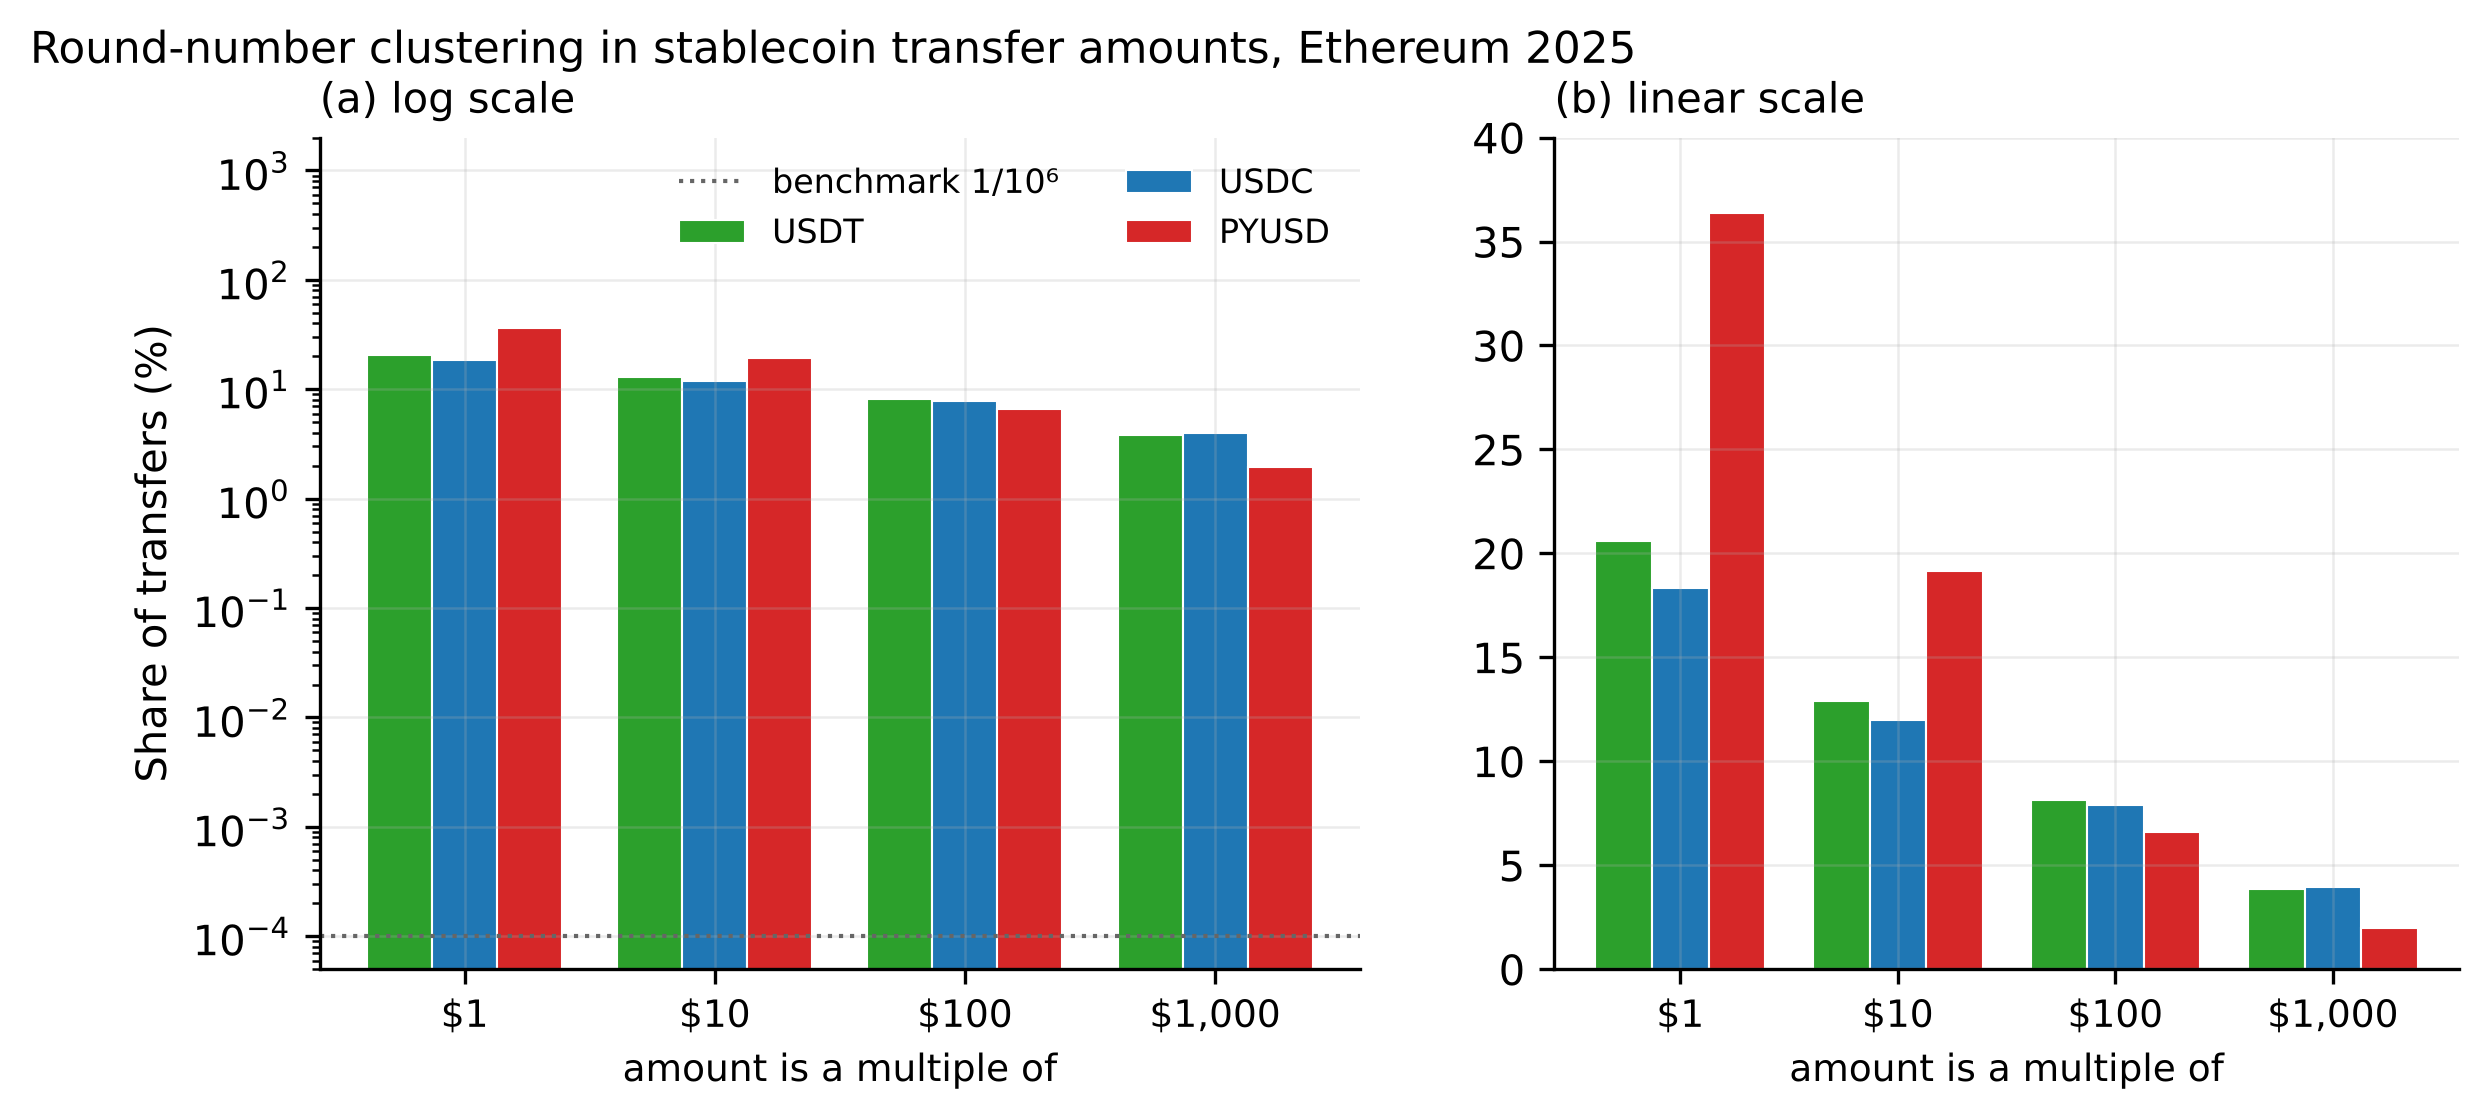
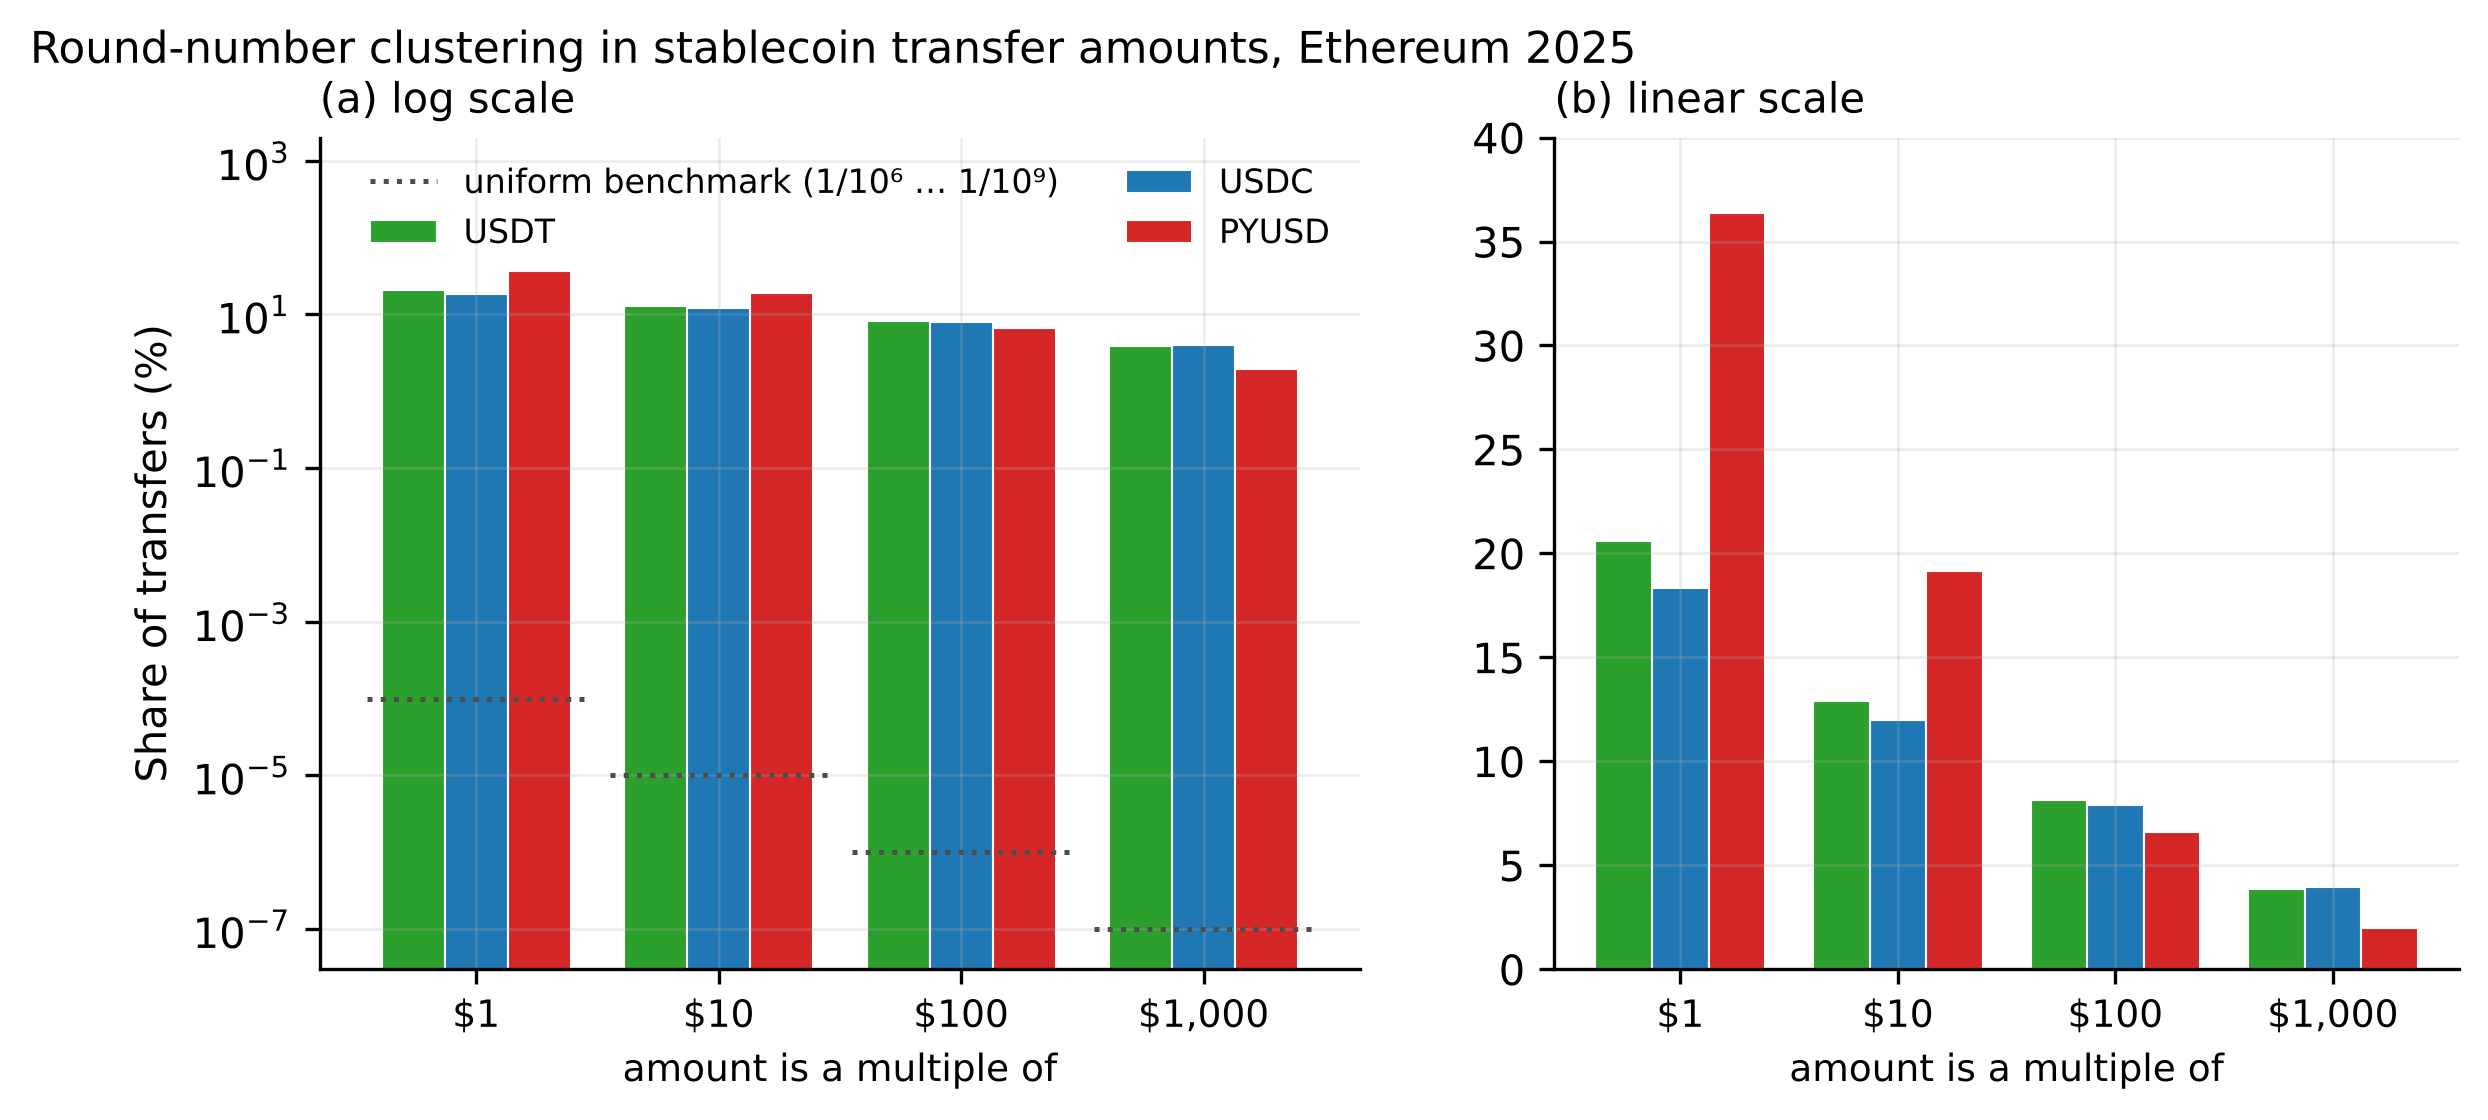
Add files via upload

diff --git a/code/rev_tables_extra.py b/code/rev_tables_extra.py
@@ -4,6 +4,7 @@
       (R02c day cells, excl. mint/burn; day FE; day-clustered SEs).
   T8  Transfers into payment-processor addresses by processor, with leave-one-out shares (R05).
   T9  Reconciliation of mint/burn-excluded counts in Tables S5 (query 07) and S7 (R02b).
+  T10 Account type x hub involvement (R02b; Table S8, Panel B).
 Run: python rev_tables_extra.py
 """
 import os
@@ -73,3 +74,24 @@ t9 = pd.DataFrame({"S5_query07": s5, "S7_R02b": s7})
 t9["difference"] = t9.S5_query07 - t9.S7_R02b
 t9.reset_index().to_csv(OUT + "T9_s5_s7_reconciliation.csv", index=False)
 print("## T9 S5 vs S7 counts (same total; transaction structure defined before vs after dropping mint/burn legs)\n", t9)
+
+# ---------------- T10
+# Account type x hub involvement (R02b month cells, >= $1, excl. mint/burn): shares and single-transfer
+# coefficient with issuer x size x month FE (descriptive; month cells allow no day-clustered inference).
+b = pd.read_csv(D + "R02b_cells_attr.csv")
+b = b[(b.cpty_cat != "mint_burn") & (b.size_bucket != "0_sub1")].copy()
+b["single"] = (b.tx_type == "1_single").astype(float)
+b["cell"] = b.coin + b.size_bucket + b.month.astype(str)
+rows = []
+for (eoa, hub), x in b.assign(eoa2eoa=~(b.from_contract | b.to_contract)).groupby(["eoa2eoa", "hv"]):
+    x = x.groupby(["cell", "single"], as_index=False)[["n", "n_whole"]].sum()
+    r = cell_ols(x, "n", "n_whole", ["single"], absorb="cell", hc1=True)  # SE not reported
+    s1, m1 = x[x.single == 1], x[x.single == 0]
+    rows.append({"accounts": "EOA to EOA" if eoa else "contract involved", "hub": "hub involved" if hub else "no hub",
+                 "whole_single_pct": round(s1.n_whole.sum() / s1.n.sum() * 100, 1),
+                 "whole_multi_pct": round(m1.n_whole.sum() / m1.n.sum() * 100, 1),
+                 "coef_pp": round(r["beta"][0] * 100, 1), "transfers_m": round(x.n.sum() / 1e6, 1),
+                 "share_pct": round(x.n.sum() / b.n.sum() * 100, 1)})
+t10 = pd.DataFrame(rows)
+t10.to_csv(OUT + "T10_account_by_hub.csv", index=False)
+print("## T10 account type x hub involvement\n", t10.to_string(index=False))

diff --git a/code/make_figs.py b/code/make_figs.py
@@ -30,8 +30,10 @@ for i,c in enumerate(ORDER):
     r = agg.loc[agg.coin==c, denoms].values.flatten()
     ax.bar(x+(i-1)*w, r, w, label=c, color=C[c], edgecolor="white", linewidth=0.5)
     ax2.bar(x+(i-1)*w, r, w, color=C[c], edgecolor="white", linewidth=0.5)
-ax.axhline(0.0001, ls=":", lw=1, color="0.4", label="benchmark 1/10⁶")
-ax.set_yscale("log"); ax.set_ylim(5e-5, 2000)
+for k in range(len(denoms)):                       # uniform-residue benchmark differs by threshold
+    ax.hlines(1e-4/10**k, k-0.45, k+0.45, ls=":", lw=1.2, color="0.3",
+              label="uniform benchmark (1/10⁶ … 1/10⁹)" if k == 0 else None)
+ax.set_yscale("log"); ax.set_ylim(3e-8, 2000)
 for a_ in (ax,ax2):
     a_.set_xticks(x); a_.set_xticklabels(dlab, fontsize=9); a_.set_xlabel("amount is a multiple of", fontsize=9)
 ax.set_ylabel("Share of transfers (%)")

diff --git a/README.md b/README.md
@@ -59,7 +59,7 @@ Additional exhibits requested in peer review. Run order and cost notes: `REVISIO
 | `code/cellreg.py` | — | Exact transfer-level OLS/WLS from cell totals; HC1 and cluster-robust SEs; absorbed FE |
 | `code/test_cellreg.py` | — | Reproduces the original Table 1 and matches transfer-level OLS/WLS on simulated data |
 | `code/rev_tables.py` | `figures/rev/T1–T6`, `revision_results.md` | Revised Table 1, robustness, label composition, value weighting, cross-chain, endpoint decomposition |
-| `code/rev_tables_extra.py` | `figures/rev/T7–T9` | Value-weighted sensitivity, processor leave-one-out, S5/S7 count reconciliation |
+| `code/rev_tables_extra.py` | `figures/rev/T7–T10` | Value-weighted sensitivity, processor leave-one-out, S5/S7 count reconciliation, account type × hub involvement |
 | `code/make_figs.py` | `figures/fig1–3` | Figures 1–3 (Figure 3 includes Tron when R03 output is present) |
 
 Because every regressor is constant within a cell, the transfer-level LPM is recovered exactly from
